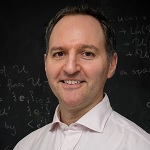
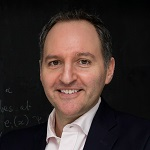
Minor changes including a missing paper and photo update

diff --git a/program-detailed.html b/program-detailed.html
@@ -154,6 +154,14 @@ redirect_from:
                                                 Murtuza Shergadwala, Himabindu Lakkaraju, and Krishnaram Kenthapadi
                                             </td>
                                         </tr>
+                                        <tr>
+                                            <td valign="top">
+                                                Allocation Schemes in Analytic Evaluation: Applicant-Centric Holistic or Attribute-Centric Segmented?
+                                            </td>
+                                            <td valign="top">
+                                                Jingyan Wang, Carmel Baharav, Nihar Shah, Anita Woolley, and R Ravi
+                                            </td>
+                                        </tr>
                                     </table>
                                 </td>
                                 <td>Plenary Room</td>

diff --git a/program.html b/program.html
@@ -79,7 +79,7 @@ redirect_from:
           </ul>
           <p class="lead">
             View a list of
-            <a class="theme-link" href="papers.html#dc">accepted papers</a>.
+            <a class="theme-link" href="papers.html#dc">accepted papers</a>.  The 2022 schedule is available <a class="theme-link" href="doctoral-consortium.html">here</a>.
           </p>
 
           <ul class="list-inline">
@@ -182,7 +182,7 @@ redirect_from:
                   <br/>
                   <br/>
                   <strong><a class="theme-link" href="doctoral-consortium.html">Doctoral Consortium</a></strong> (<i>Plenary
-                  Room</i>, the 2022 schedule is available <a class="theme-link" href="doctoral-consortium.html">here</a>)
+                  Room</i>)
                 </td>
                 <td>
                   10:00-11:00am:
